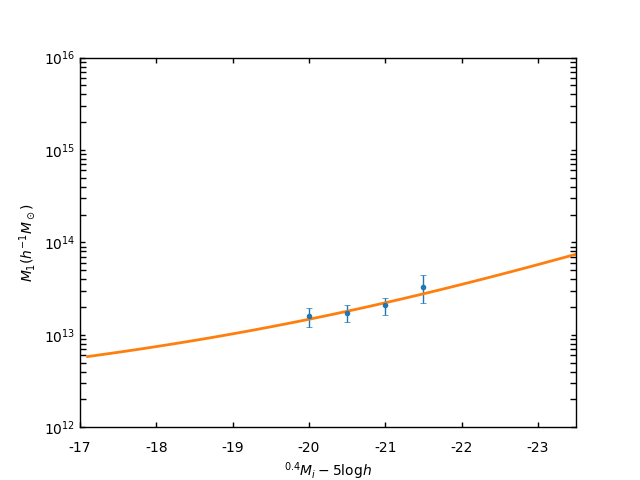
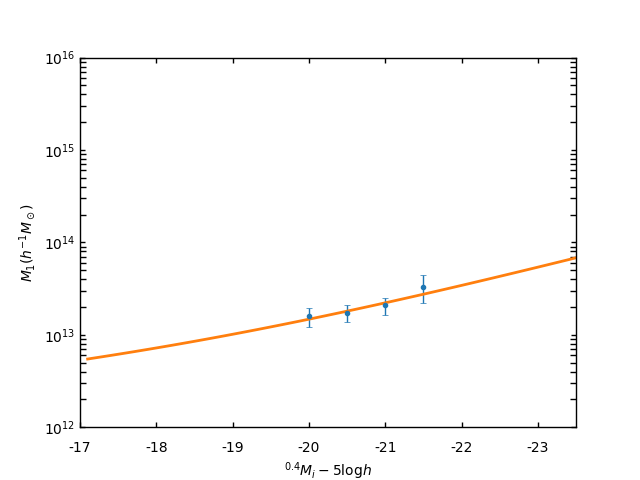
add mock plot codes.

diff --git a/show_mock_colordist.py b/show_mock_colordist.py
@@ -1,0 +1,103 @@
+import numpy as np
+import matplotlib.pyplot as plt
+import seaborn as sns
+
+from plotParam import *
+
+
+## This code is to show the Distribution of colours in the mock catalogures.
+
+fpath = './Data_Output/'
+fname = 'galcatcat_pinocchio_mysel_test9.hdf5'#'galaxy_catalogue_pinocchio.hdf5'
+
+fdata = np.loadtxt(fpath + fname + '.txt')
+index_z = 2
+## it can not be 0.
+
+z_name = [0.0, 0.1, 0.2, 0.4, 0.6]
+mag_name = [[17.75, 17.25], [18.75, 18.25], [19.75, 19.25], \
+            [20.75, 20.25], [21.75, 21.25], [22.75, 22.25]]
+
+
+#-----------Selection------------#
+col = fdata[:, 3]
+z_cos = fdata[:, 9]
+
+
+z_cos_min = np.where(z_cos < z_name[index_z - 1])
+z_cos_max = np.where(z_cos > z_name[index_z])
+
+abs_mag = fdata[:, 0]
+abs_mag_1775 = np.where(abs_mag < -17.75)
+abs_mag_1725 = np.where(abs_mag > -17.25)
+abs_mag_1875 = np.where(abs_mag < -18.75)
+abs_mag_1825 = np.where(abs_mag > -18.25)
+abs_mag_1975 = np.where(abs_mag < -19.75)
+abs_mag_1925 = np.where(abs_mag > -19.25)
+abs_mag_2075 = np.where(abs_mag < -20.75)
+abs_mag_2025 = np.where(abs_mag > -20.25)
+abs_mag_2175 = np.where(abs_mag < -21.75)
+abs_mag_2125 = np.where(abs_mag > -21.25)
+abs_mag_2275 = np.where(abs_mag < -22.75)
+abs_mag_2225 = np.where(abs_mag > -22.25)
+
+
+#------------Counts--------------#
+nbin = 100
+dcol = np.linspace(min(col), max(col), endpoint = True, num = nbin+1)
+
+col_1 = np.delete(col, np.hstack((z_cos_min, z_cos_max, abs_mag_1775, abs_mag_1725)))
+col_2 = np.delete(col, np.hstack((z_cos_min, z_cos_max, abs_mag_1875, abs_mag_1825)))
+col_3 = np.delete(col, np.hstack((z_cos_min, z_cos_max, abs_mag_1975, abs_mag_1925)))
+col_4 = np.delete(col, np.hstack((z_cos_min, z_cos_max, abs_mag_2075, abs_mag_2025)))
+col_5 = np.delete(col, np.hstack((z_cos_min, z_cos_max, abs_mag_2175, abs_mag_2125)))
+col_6 = np.delete(col, np.hstack((z_cos_min, z_cos_max, abs_mag_2275, abs_mag_2225)))
+
+
+N1 = np.zeros(nbin); N2 = np.zeros(nbin); N3 = np.zeros(nbin)
+N4 = np.zeros(nbin); N5 = np.zeros(nbin); N6 = np.zeros(nbin)
+for i in range(nbin):
+    N1[i] = np.count_nonzero(col_1 <= dcol[i+1])
+    N2[i] = np.count_nonzero(col_2 <= dcol[i+1])
+    N3[i] = np.count_nonzero(col_3 <= dcol[i+1])
+    N4[i] = np.count_nonzero(col_4 <= dcol[i+1])
+    N5[i] = np.count_nonzero(col_5 <= dcol[i+1])
+    N6[i] = np.count_nonzero(col_6 <= dcol[i+1])
+
+dN1 = np.zeros(nbin); dN2 = np.zeros(nbin); dN3 = np.zeros(nbin)
+dN4 = np.zeros(nbin); dN5 = np.zeros(nbin); dN6 = np.zeros(nbin)
+for i in range(nbin-1):
+    dN1[i] = N1[i+1] - N1[i]
+    dN2[i] = N2[i+1] - N2[i]
+    dN3[i] = N3[i+1] - N3[i]
+    dN4[i] = N4[i+1] - N4[i]
+    dN5[i] = N5[i+1] - N5[i]
+    dN6[i] = N6[i+1] - N6[i]
+
+
+#-------------Plot---------------#
+fig = plt.figure(1, (36, 20))
+plt.plot(dcol[1:], dN1/180, label = r'$-17.25<^{0.1}M_r<-17.25$')
+plt.plot(dcol[1:], dN2/180, label = r'$-18.25<^{0.1}M_r<-18.25$')
+plt.plot(dcol[1:], dN3/180, label = r'$-19.25<^{0.1}M_r<-19.25$')
+plt.plot(dcol[1:], dN4/180, label = r'$-20.25<^{0.1}M_r<-20.25$')
+plt.plot(dcol[1:], dN5/180, label = r'$-21.25<^{0.1}M_r<-21.25$')
+plt.plot(dcol[1:], dN6/180, label = r'$-22.25<^{0.1}M_r<-22.25$')
+
+
+plt.xlabel(r'$^{0.1}(g-r)$', fontsize = 15)
+plt.xlim([-0.2, 1.4])
+plt.xticks([-0.2, 0.0, 0.2, 0.4, 0.6, 0.8, 1.0, 1.2, 1.4], ('-0.2', '0.0', '0.2', '0.4', '0.6', '0.8', '1.0', '1.2'), fontsize = 15)
+plt.ylabel(r'$N\,(deg^{-2})$', fontsize = 15)
+#plt.ylim([0,5000])
+#plt.yticks([0, 1000, 2000, 3000, 4000, 5000], ('0', '1000', '2000', '3000', '4000', '5000'), fontsize = 15)
+#plt.ylim([0, 60000])
+#plt.yticks([0, 10000, 20000, 30000, 40000, 50000, 60000], ('0', r'$1\times10^{4}$', r'$2\times10^{4}$', r'$3\times10^{4}$', r'$4\times10^{4}$', r'$5\times10^{4}$', r'$6\times10^{4}$'), fontsize = 13)
+
+plt.text(1.0, 26000, '0.0 < z < '+str(z_name[index_z]), ha = 'right', ma = 'right', va = 'top', fontsize = 12) 
+plt.legend(loc = 'upper left', fontsize = 10, frameon = False)
+plt.tight_layout()
+plt.savefig(fpath + fname + '_z_' + str(z_name[index_z]) + '_Ncol.png')
+plt.show()
+
+

diff --git a/show_mock_outData.py b/show_mock_outData.py
@@ -1,0 +1,54 @@
+import matplotlib.pyplot as plt
+from matplotlib import ticker
+import numpy as np
+import h5py
+import cartopy.crs as ccrs
+
+from plotParam import *
+
+
+## This code is to show the output galaxy catalogue mocks.
+
+fpath = './Data_Output/'
+fname = 'galaxy_catalogue_pinocchio.hdf5'
+show_comp = True
+show_hist = True
+
+
+#----------------------------------#
+def convert_ra2long(ravals):
+    ## to convert RA values defined in [0, 360] to LONG values defined in [-180, 180]
+    longvals = np.atleast_1d(ravals.copy())
+    longvals[longvals > 180.] = longvals[longvals > 180] - 360.
+    return longvals
+
+outFile = './hodpy_pinocchio/output/' + fname
+outData = h5py.File(outFile)
+inFile = './hodpy_pinocchio/input/halo_catalogue_pinocchio.hdf5'
+inData = h5py.File(inFile)
+
+
+#-------------Plot-----------------#
+if show_comp:
+    f = plt.figure(1, (38, 36))
+    ax = f.add_subplot(111, projection = ccrs.AzimuthalEquidistant(central_latitude = 90.))
+    ax.gridlines(draw_labels = True, y_inline = True, xformatter = ticker.StrMethodFormatter("{x:.3g}"), yformatter = ticker.StrMethodFormatter("{x:.3g}"))
+    ax.scatter(convert_ra2long(np.array(inData['Data']['ra'][::2000])), inData['Data']['dec'][::2000], s=2, transform=ccrs.PlateCarree(), label = 'Input Halo Catalogue', marker = '.', alpha = 0.5, rasterized = True)
+    ax.scatter(convert_ra2long(np.array(outData['ra'][::2000])), outData['dec'][::2000], s=1, transform=ccrs.PlateCarree(), label = 'Output Galaxy Catalogue', c = 'red', marker = 'o', alpha = 0.5, rasterized=True) 
+    plt.savefig(fpath + 'galaxy_catalogue_pinocchio_compare.png')
+    ax.legend(loc = 'lower left', bbox_to_anchor = (0, 1), frameon = False)
+    plt.show()
+
+
+if show_hist:
+    f, ax = plt.subplots(figsize = (20, 18))
+    ax.hist(outData['zcos'][::3000], bins = 100, density = True, label = 'Output Galxy Catalogue')
+    plt.xlim([0.2, 0.6])
+    plt.xticks([0.2, 0.3, 0.4, 0.5, 0.6], ('0.2', '0.3', '0.4', '0.5', '0.6'), fontsize = 12)
+    ax.set_xlabel(r'$z$', fontsize = 15)
+    ax.set_ylabel('Numbers', fontsize = 15) 
+    ax.legend(loc = 'upper right', frameon = False)
+    f.savefig(fpath + 'galaxy_catalogue_pinocchio_distribution.png')
+    plt.show()
+
+

diff --git a/show_mock_dNdz.py b/show_mock_dNdz.py
@@ -1,0 +1,50 @@
+import numpy as np
+import matplotlib.pyplot as plt
+import seaborn as sns
+from scipy.interpolate import interp1d,interp2d
+from plotParam import *
+
+
+## This code is to show the dNdz in the mock catalogures.
+
+fpath = './Data_Output/'
+fname = 'galcatcat_pinocchio_mysel_test9.hdf5'#'galaxy_catalogue_pinocchio.hdf5'
+
+fdata = np.loadtxt(fpath + fname + '.txt')
+bin_lum = ['-25.2', '-23.0', '-22.0', '-21.0', '-20.0', '-17.5']
+mag_name = [-25.2, -23.0, -22.0, -21.0, -20.0, -17.5]
+ibin_index = 1
+zbins = np.linspace(0.0001, 2., num = 100)
+zbins_mid = np.zeros(len(zbins) - 1)
+dndz = np.zeros(len(zbins) - 1)
+dndz_deltazz = np.zeros(len(zbins) - 1)
+
+abs_mag = fdata[:, 0]
+abs_mag_del = np.where(abs_mag > mag_name[ibin_index + 1])
+
+z_cos = fdata[:, 9]
+#print(z_cos);exit()
+z_dist = np.delete(z_cos, abs_mag_del)
+
+#for i in range(len(zbins) - 1):
+#    zbins_mid[i] = (zbins[i] + zbins[i+1])/2.
+#    deltazz = (zbins[i+1] - zbins[i])
+#    dndz[i] = (((zbins[i]<z_dist) & (z_dist<zbins[i+1])).sum())
+#    dndz_deltazz[i] = dndz[i]/deltazz
+#winres = dndz_deltazz/sum(dndz)
+
+
+#-------------Plot---------------#
+fig = plt.figure(1, (36, 20))
+plt.hist(z_dist, bins = 100, density = True)
+plt.ylabel(r'$\mathrm{d}N\mathrm{d}z$', fontsize = 15)
+#plt.ylabel(r'$\mathrm{W\,function}$', fontsize = 15)
+plt.xlabel(r'$z$', fontsize = 15)
+#plt.xlim([0.2, 0.6])
+#plt.xticks([0.2, 0.3, 0.4, 0.5, 0.6], ('0.2', '0.3', '0.4', '0.5', '0.6'), fontsize = 12)
+plt.legend(loc = 'upper left', fontsize = 10, frameon = False)
+plt.tight_layout()
+plt.savefig('./Data_Output/miniJPAS_axiliary/mock_' + bin_lum[0] + '_' + bin_lum[ibin_index+1] + '_dndz.png')
+plt.show()
+
+

diff --git a/fraction.py b/fraction.py
@@ -1,0 +1,51 @@
+#!/usr/bin/env python3
+# -*- coding: utf-8 -*-
+#Copyright (c) Xiu-hui Tan
+## This code is to build the fraction of blue galaxies and central galaxies for AMEGO, which is in name of miniJPAS.
+import numpy as np
+import pandas as pd
+import matplotlib.pyplot as plt
+from mpl_toolkits.mplot3d import Axes3D
+
+fpath = '../Data_Input/AMEGO/'
+f_cenblue = 'galaxies_central_blue.csv'
+f_cenred = 'galaxies_central_red.csv'
+f_satblue = 'galaxies_satelite_blue.csv'
+f_satred = 'galaxies_satelite_red.csv'
+fout = './Data_Output/'
+
+def read_data(fname, Sat = False, Out = False):
+    fdata = np.array(pd.read_csv(fname))
+    ra = fdata[:, 0]
+    dec = fdata[:, 1]
+    mag_auto_r = fdata[:, 2]
+    photonz = fdata[:, 3]
+    if Sat:
+        id_assoc = None
+        prob_assoc = fdata[:, 4]
+    else:
+        id_assoc = fdata[:, 4]
+        prob_assoc = fdata[:, 5]
+    if Out:
+        return fdata[:, Out]
+    else:
+        return ra, dec, mag_auto_r, photonz, id_assoc, prob_assoc
+
+ra, dec, mag_satblue, z_satblue, x, prob_satblue = read_data(fpath + f_satblue, Sat = True)
+ra, dec, mag_cenblue, z_cenblue, id_cenblue, prob_cenblue = read_data(fpath + f_cenblue)
+ra, dec, mag_cenred, z_cenred, id_cenred, prob_cenred = read_data(fpath + f_cenred)
+ra, dec, mag_satred, z_satred, x, prob_satred = read_data(fpath + f_satred, Sat = True)
+print(mag_satblue, z_satblue, len(prob_satblue) )
+print(mag_cenblue, z_cenblue, prob_cenblue)
+
+ax = plt.subplot(111, projection = '3d')
+ax.scatter(mag_satblue, z_satblue, prob_satblue)
+ax.set_zlabel('prob')
+ax.set_xlabel('mag')
+ax.set_ylabel('redshift')
+plt.show()
+
+
+
+
+

diff --git a/show_mock_ndensity.py b/show_mock_ndensity.py
@@ -1,0 +1,35 @@
+import numpy as np
+import matplotlib.pyplot as plt
+import seaborn as sns
+from plotParam import *
+from compute_HOD import dndm_func
+
+
+## This code is to show the dNdz in the mock catalogures.
+
+fpath = './Data_Output/'
+fname = 'galcatcat_pinocchio_mysel_test9.hdf5'#'galaxy_catalogue_pinocchio.hdf5'
+
+fdata = np.loadtxt(fpath + fname + '.txt')
+bin_lum = ['-25.2', '-23.0', '-22.0', '-21.0', '-20.0', '-17.5']
+mag_name = [-25.2, -23.0, -22.0, -21.0, -20.0, -17.5]
+zz_fix = 0.4
+zcos = fdata[:, 9]
+zz05_del = np.where(zcos>0.5)
+zz03_del = np.where(zcos<0.3)
+halo_mass = np.delete(fdata[:, 6], np.hstack((zz03_del, zz05_del)))
+abs_mag = np.delete(fdata[:, 0], np.hstack((zz03_del, zz05_del)))
+dndm = dndm_func(halo_mass, zz_fix)*halo_mass
+
+#-------------Plot---------------#
+fig = plt.figure(1, (36, 20))
+plt.plot(abs_mag, dndm)#, lable = 'z ='+str(zz_fix))
+plt.ylabel(r'$\phi\,h^3\mathrm{Mpc^{-3}mag^{-1}}$', fontsize = 15)
+plt.xlabel(r'$^{0.4}M_i$', fontsize = 15)
+#plt.xlim([-25., -17.])
+#plt.legend(loc = 'upper left', fontsize = 10, frameon = False)
+#plt.tight_layout()
+#plt.savefig('./Data_Output/miniJPAS_axiliary/mock_z_' + str(zz_fix) + '_luminosity.png')
+plt.show()
+
+

diff --git a/fit_HOD.py b/fit_HOD.py
@@ -76,6 +76,7 @@ def sigma_model():
 def M_interpolator(magout, L_s, M_t, a_m):
     log_mass = np.arange(12, 16, 0.001)[::-1]
     magnitudes = M1_model_prior(log_mass, L_s, M_t, a_m)
+    print(L_s, M_t, a_m, magnitudes)
     f = RegularGridInterpolator((magnitudes,), log_mass, bounds_error=False, fill_value=None)
     res = (f(magout))
     return res
@@ -115,7 +116,7 @@ def Fit_func(M1 = 0, M_min = 0, alpha = 0, Pablo = 0, Xiu = 0):
         imethod = 'Nelder-Mead'
     if M1 == 1:
         pos = [3.70558341e+09, 4.77678420e+11, 3.05963831e-01]
-        bounds_prior = ((1.e8, 1.e10), (1.e11, 1.e14), (0.1, 3.))
+        bounds_prior = ((1.e8, 1.e10), (1.e11, 1.e13), (0.1, 3.))
         imethod = 'TNC'
     if alpha == 1:
         pos = [0.0982841, 80.27598, 10.0]

diff --git a/k_correction.py b/k_correction.py
@@ -1,12 +1,12 @@
 #!/usr/bin/env python2
 # -*- coding: utf-8 -*-
+#Copyright (c) Xiu-hui Tan
+## This code is to build k correction for JPAS.
 import numpy as np
 import pandas as pd
 import matplotlib.pyplot as plt
 import Func_Cosmo as Cfunc
 from plotParam import *
-#Copyright (c) Xiu-hui Tan
-## This code is to build k correction for JPAS.
 
 fpath = './Data_Input/JPAS/'
 fcsv = 'minijpas_pdr201912_cat_wAbsMag_v1.csv'
